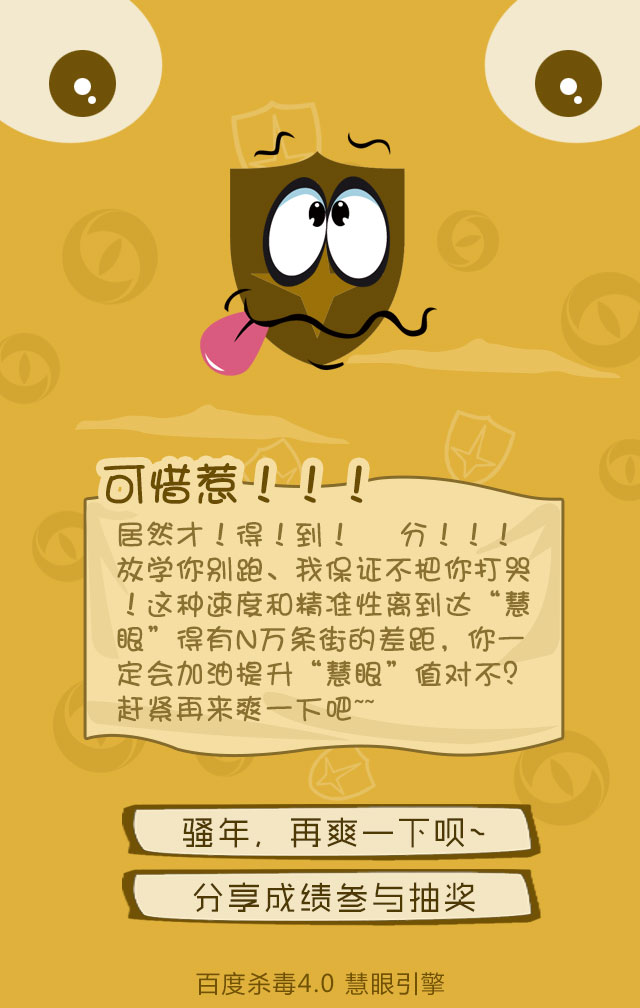
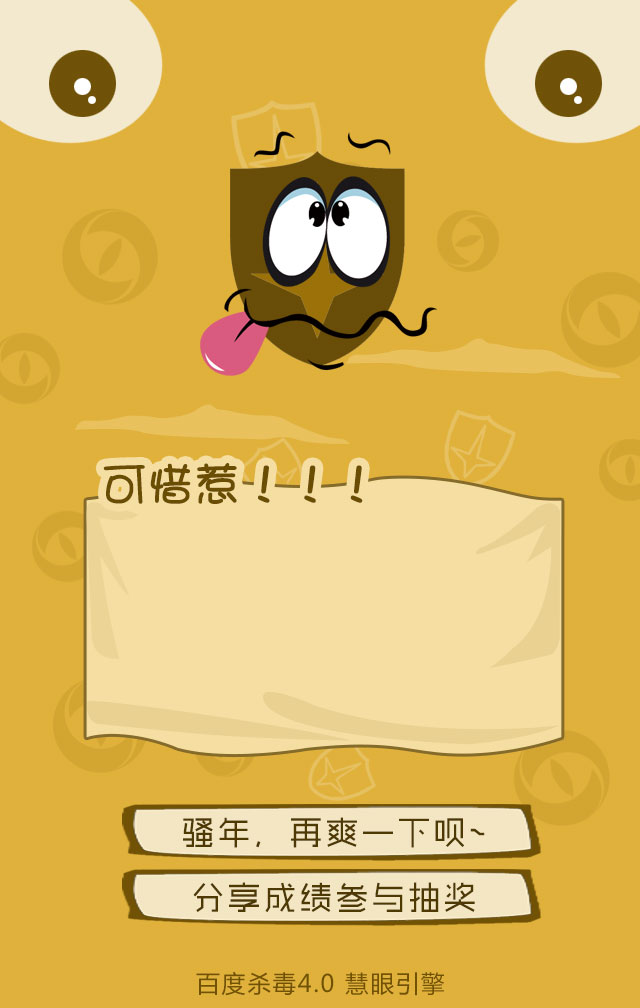
upgrade

Changed region(s): [[0.1875, 0.4921, 0.8438, 0.7381]]

diff --git a/webgame/baidukill/js/run.js b/webgame/baidukill/js/run.js
@@ -3,8 +3,9 @@
     document.addEventListener("touchmove",function(e){
         e.preventDefault();  
     });
-    document.addEventListener("dbclick",function(e){
-        e.preventDefault();  
+    document.addEventListener("click",function(e){
+        e.preventDefault(); 
+        
     });
     window.requestAnimationFrame = (function(){
         return  window.requestAnimationFrame       ||
@@ -125,6 +126,7 @@
                    
                 }
             }else if(e.type == "touchstart" ){
+                return;
                 target = e.touches[0];
                 relativePos = this.getPosition(target.pageX,target.pageY);
                 if(self.heads){
@@ -208,7 +210,7 @@
                 
                 self.initData();
                 
-                self.start();
+               self.start();
                
                 
 
@@ -298,7 +300,7 @@
                 {x:Math.random()*400,y:100},
                 {x:Math.random()*400,y:100},
             ];
-            var speedBase = 2;
+            var speedBase = 4;
             var speedScal = 2;
             var heads=[
                 { name:"绵羊", obj: self.resources["sheep1"],speed:speedBase+speedScal*Math.random(), position:this.headPosition(true) },
@@ -313,7 +315,6 @@
                 { name:"王祖蓝",  obj: self.resources["wangzulan"],speed:speedBase+speedScal*Math.random(), position:this.headPosition(true) },
                 { name:"杨臣刚",  obj: self.resources["yangchengang"],speed:speedBase+speedScal*Math.random(), position:this.headPosition(true) },
                 { name:"张默",  obj: self.resources["zhangmo"],speed:speedBase+speedScal*Math.random(), position:this.headPosition(true) },
-
             ];
 
             var exist = [];
@@ -344,9 +345,13 @@
 
             },this,resolution];
         },
+        mutiLineText:function(text,ctx){
+
+        },
         drawResult:function(num){
             num = this.scores;
             var self = this,text,index,content;
+            //num = 220
             if(num < 100){
                 index = 1;
                 text = "成绩偏差，"+num+"分";
@@ -363,6 +368,28 @@
                 content="如此快速精准的从千万只喜羊羊中找出1只草泥马幼崽这种事显然只有目光如炬、天赋“慧眼”的你才能办得到嘛！得了"+num+"分的好成绩、骚年要不要考虑分享抽个奖？"
 
             }
+            var autoBreakLine = function(text,x,y,lineWidth,wordWidth,lineHeight,ctx,conf){
+                 var wordWidth = 20;
+                var lineWidth = 300;
+                var tmpText = "";
+                var cutLength = Math.floor(lineWidth/wordWidth);
+                var length = text.length;
+                var _length = 0;
+                var _height = y;
+                ctx.textAlign="center";
+                ctx.font="36px Yahei";
+                while(1){
+                    tmpText = text.substr(_length,cutLength);
+                    _length+=cutLength;
+                    self.ctx.fillText(tmpText,x,_height);
+                    _height+=lineHeight;
+                    console.log(tmpText)
+                    if(_length > length){
+                        break;
+                    }
+                }
+                
+            }
             this.inject["result"+index] = [function(self){
                 var image = self.resources["result"+index].img;
                 self.ctx.drawImage(image,0,0,image.width,image.height);
@@ -370,8 +397,11 @@
                 self.ctx.textAlign="center";
                 self.ctx.width= "300px";
                 self.ctx.font="40px Yahei";
-                self.ctx.fillText(text,self.canvasWidth/2,self.getPosition(0,250)[1]);
-               // self.ctx.fillText(content,self.canvasWidth/2,self.getPosition(0,304)[1],250);
+                self.ctx.fillText(text,self.canvasWidth/2,self.getPosition(0,260)[1]);
+
+                autoBreakLine(content,self.canvasWidth/2,self.getPosition(0,330)[1],300,40,40,self.ctx);
+            
+                
 
                 self.ctx.fillStyle="#e0b13b";
                 self.ctx.fillRect(0,image.height,self.canvasHeight,self.canvasWidth);
@@ -435,6 +465,7 @@
         start:function(){
             var self = this;
             this.drawIndex();
+            //self.drawResult();
             this.initEnv();
             this.animate();
            
@@ -468,7 +499,7 @@
         },
         initEnv:function(){
             this.startFlag = true;
-            this.runTime= 60;
+            this.runTime= this.timeLimit;
             this.scores = 0;
             this.process={};
             this.process.index = true;

diff --git a/webgame/baidukill/index.html b/webgame/baidukill/index.html
@@ -25,10 +25,11 @@ body{background:#e0b13b}
 
 </head>
 <body scoll=no  onselectstart="return false;" style="-moz-user-select:none; user-select:none; -webkit-user-select:none;" >
+	<img style="height:0px; width:0px; position:absolute; overflow:hidden;" src="img/avatar.jpg">
 	<div id="container">
 		<div class="loading" >
 
-
+			loading... (0%)
 		</div>
         
 
